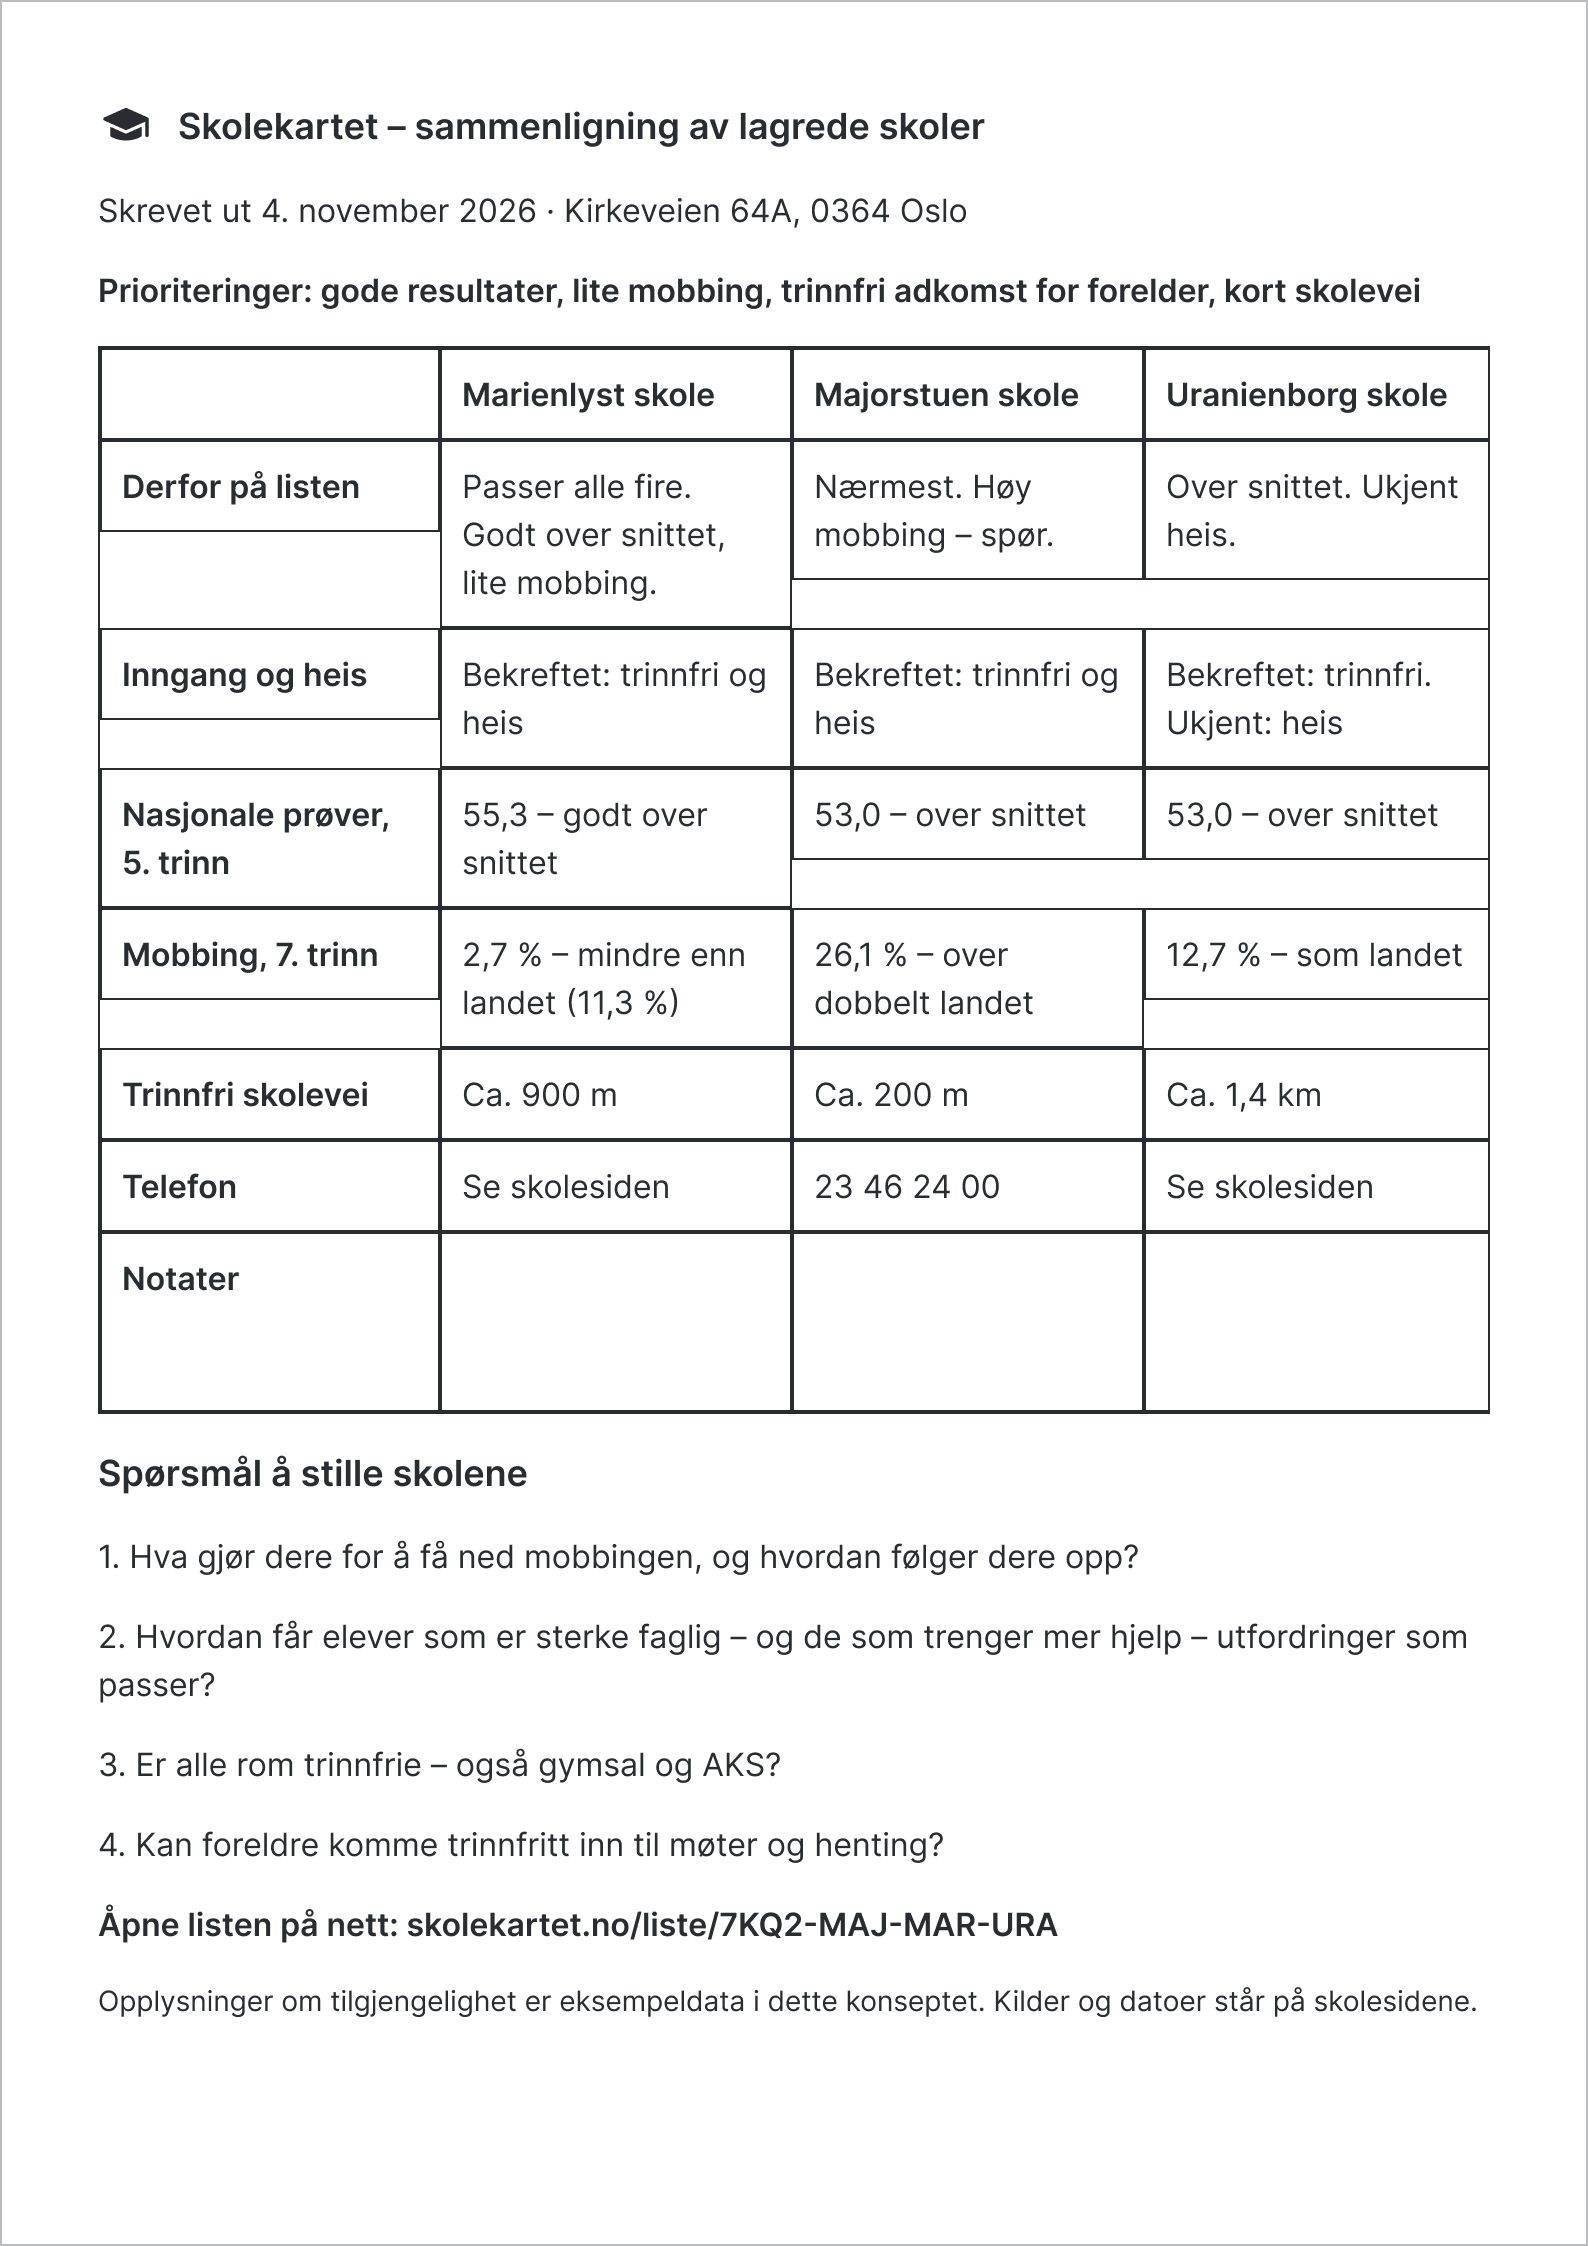
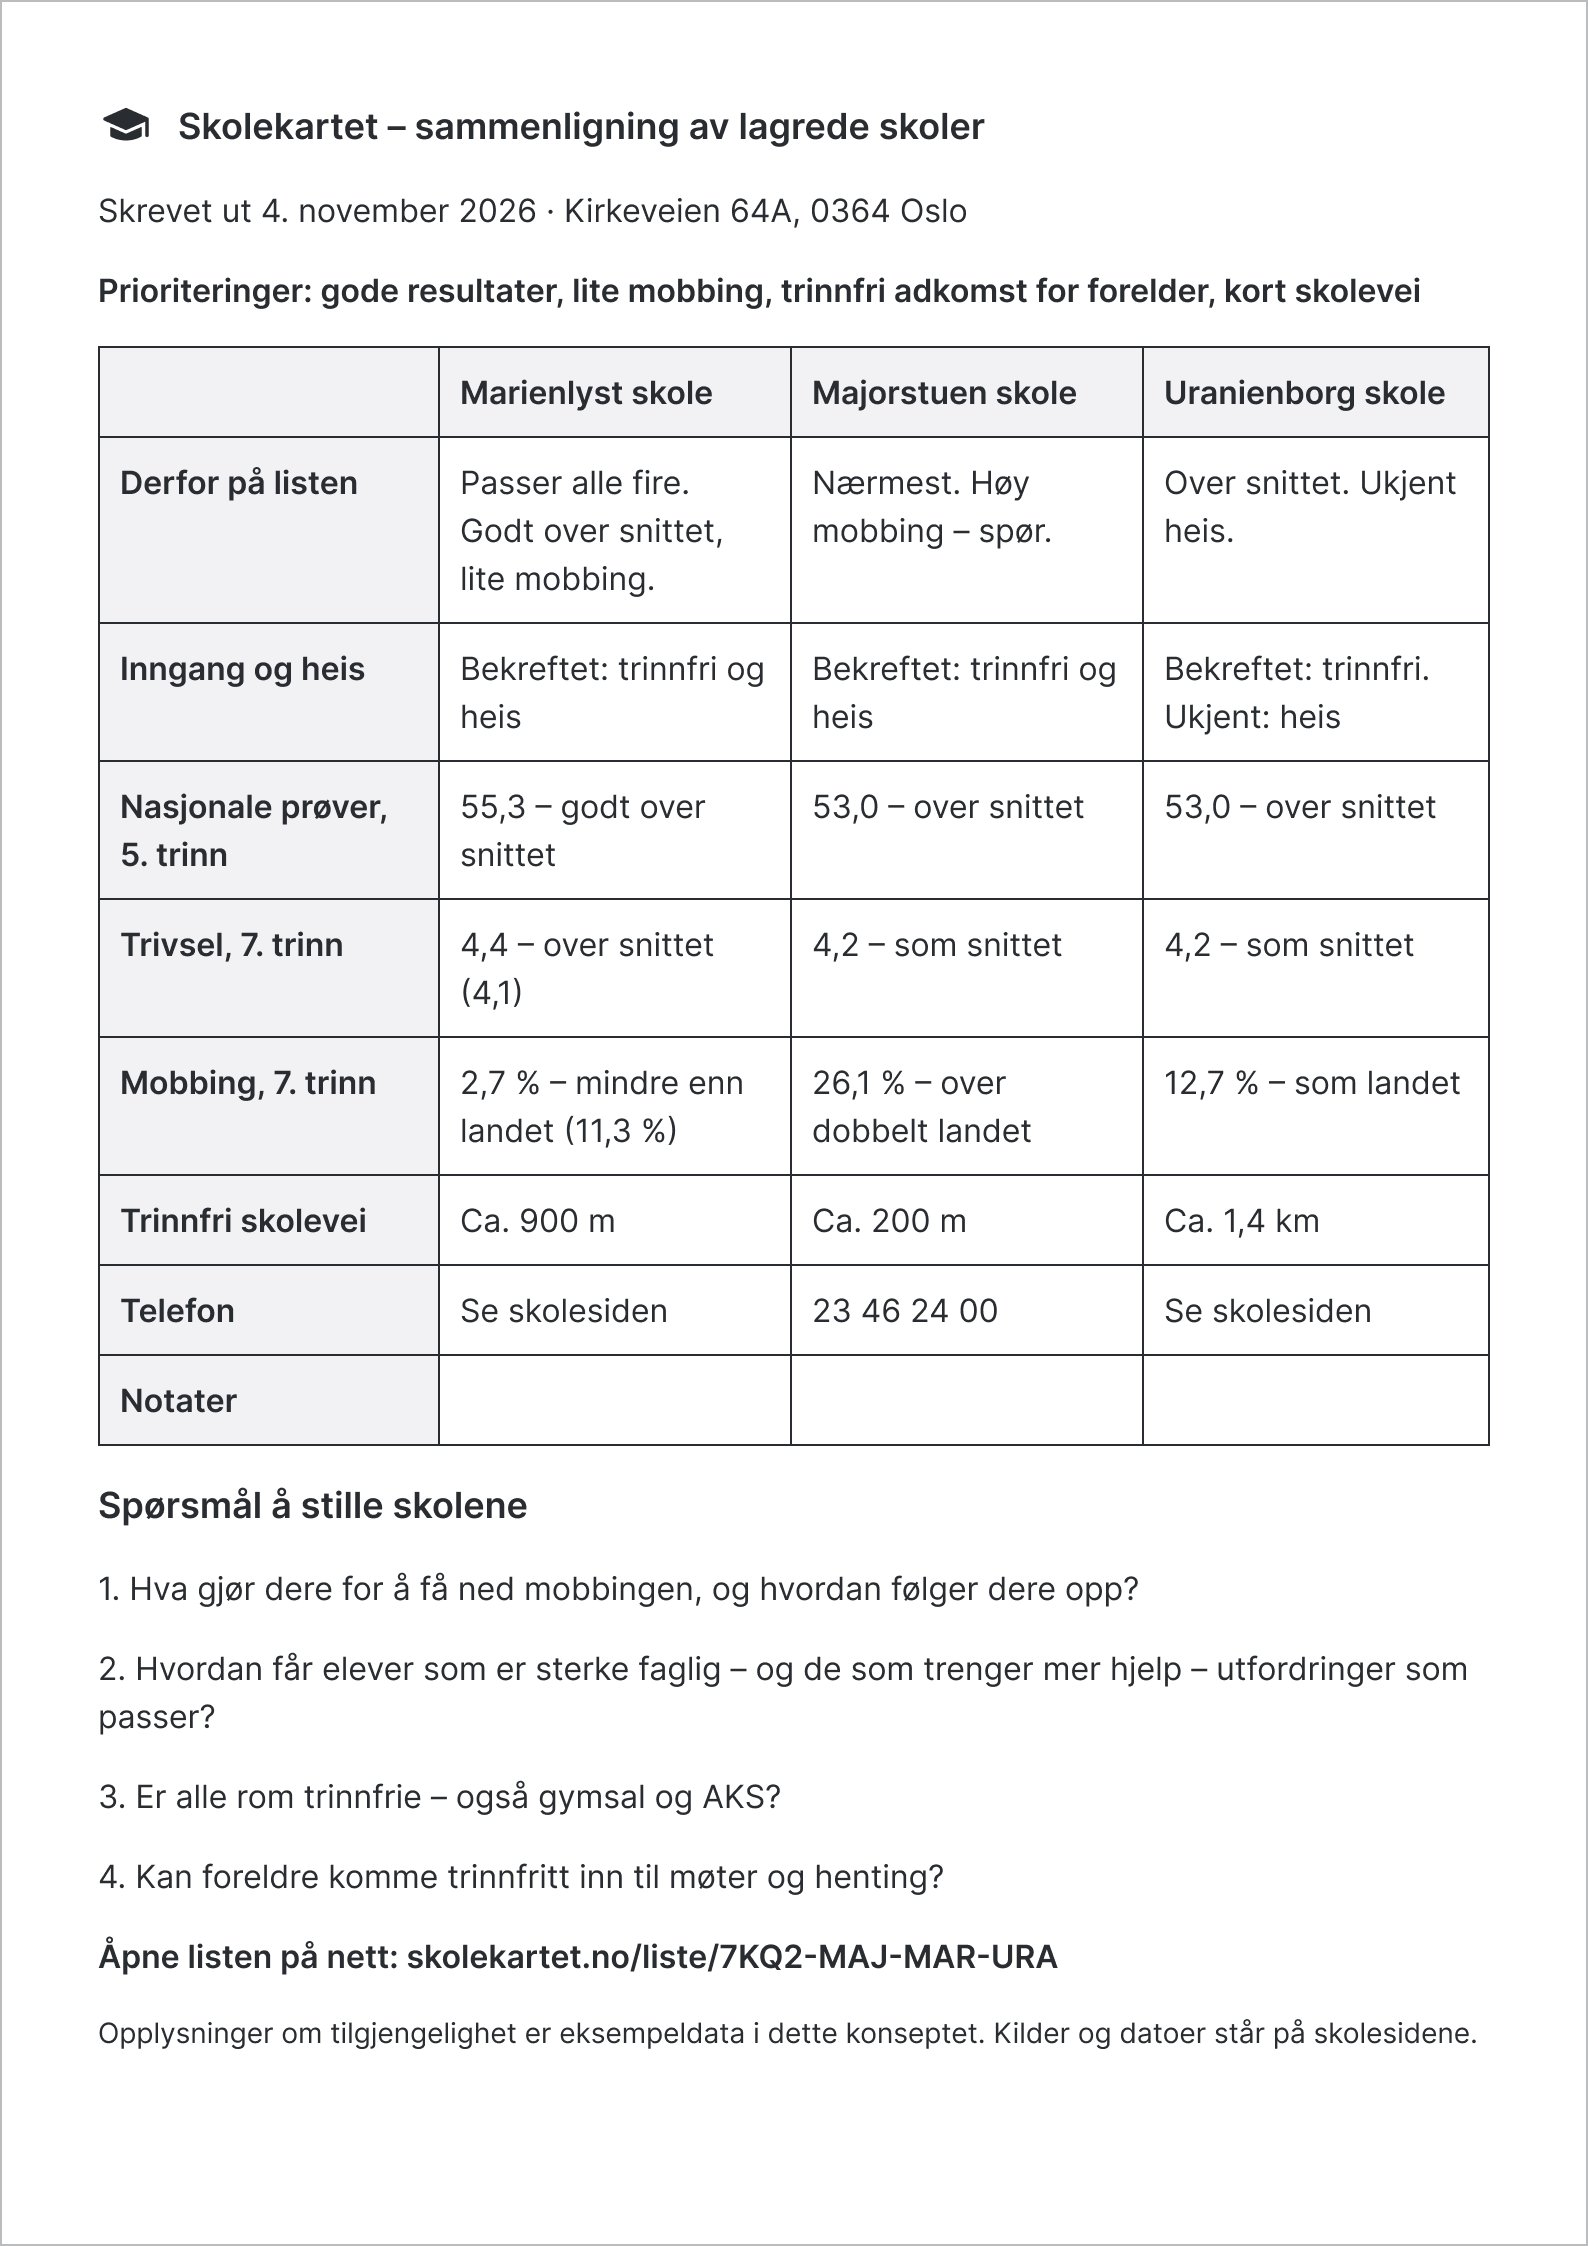
Skolekartet case: clean up the A4 print table
Equal-height cells with single grid lines, a light header and first
column, and a wellbeing row next to national tests and bullying.

diff --git a/skolekartet.html b/skolekartet.html
@@ -774,7 +774,7 @@
         </figure>
         <figure>
           <img src="assets/case/sk/cmb-print.jpg" width="1588" height="2246" loading="lazy"
-               alt="An A4 print of the comparison: the family&apos;s priorities, three schools with the reason each is on the list, rows for national tests and bullying in words, and questions to ask." />
+               alt="An A4 print of the comparison: the family&apos;s priorities, three schools with the reason each is on the list, rows for national tests, wellbeing and bullying in words, and questions to ask." />
           <figcaption data-en="An A4 print for Erik, and for anyone who brings paper to a meeting." data-no="En A4-utskrift for Erik, og for alle som tar med papir på et møte.">An A4 print for Erik, and for anyone who brings paper to a meeting.</figcaption>
         </figure>
       </div>
